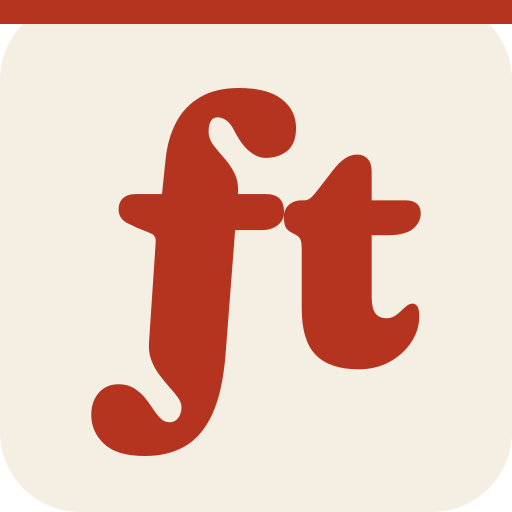
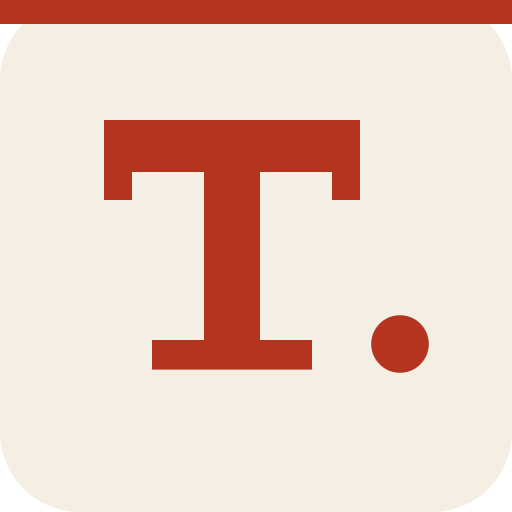
feat(ins-theater): city-neutral "T." mark replacing the Frankfurt "ft" monogram
The theater vertical now serves multiple cities, but its mark/favicon/og were
an "ft" (Frankfurt Theater) serif monogram labelled "Frankfurt Theater" —
wrong on hamburg.ins.theater. Replace it with a refined serif "T." (Theater +
the brand dot from "Theater." / "ins.theater"), city-neutral and in the same
editorial brick-red-on-cream register.

Updates mark.svg, mark-paper.svg (reversed), favicon.svg, og-image.svg and
re-rasterizes the icon set (192/512 + maskable safe-zone variants) and
og-image.png via rsvg-convert; aria-labels now "ins.theater". The wordmark
already renders the city per-host, so the masthead stays correct. Service
worker cache bumped to v7 so clients refetch the new icons.

Changed region(s): [[0.1562, 0.1562, 0.8438, 0.9062]]

diff --git a/apps/ins-theater/src/service-worker.ts b/apps/ins-theater/src/service-worker.ts
@@ -1,7 +1,7 @@
 import { buildServiceWorkerJs } from "@museumsufer/core";
 
 export const SERVICE_WORKER_JS = buildServiceWorkerJs({
-  cacheKey: "ins-theater-v6",
+  cacheKey: "ins-theater-v7",
   staticAssets: [
     "/favicon.svg",
     "/mark.svg",
